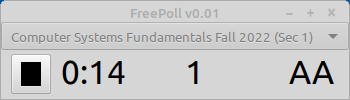
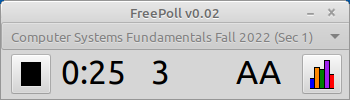
document support for bar graph view

diff --git a/guide.md b/guide.md
@@ -103,6 +103,11 @@ each time a student submits an initial response:
 
 ![screenshot of a poll in progress](img/screenshot.png)
 
+At any time, you can press the bar graph button (on the right of the window)
+to display a bar graph of the current poll results:
+
+![screenshot of a poll with bar graph of results](img/screenshot_bar_graph.png)
+
 Press the button again (it's now a "stop" button, "⏹") to end the poll.
 FreePoll will create a new subdirectory of the course directory for the selected
 course, with a directory name of the form
